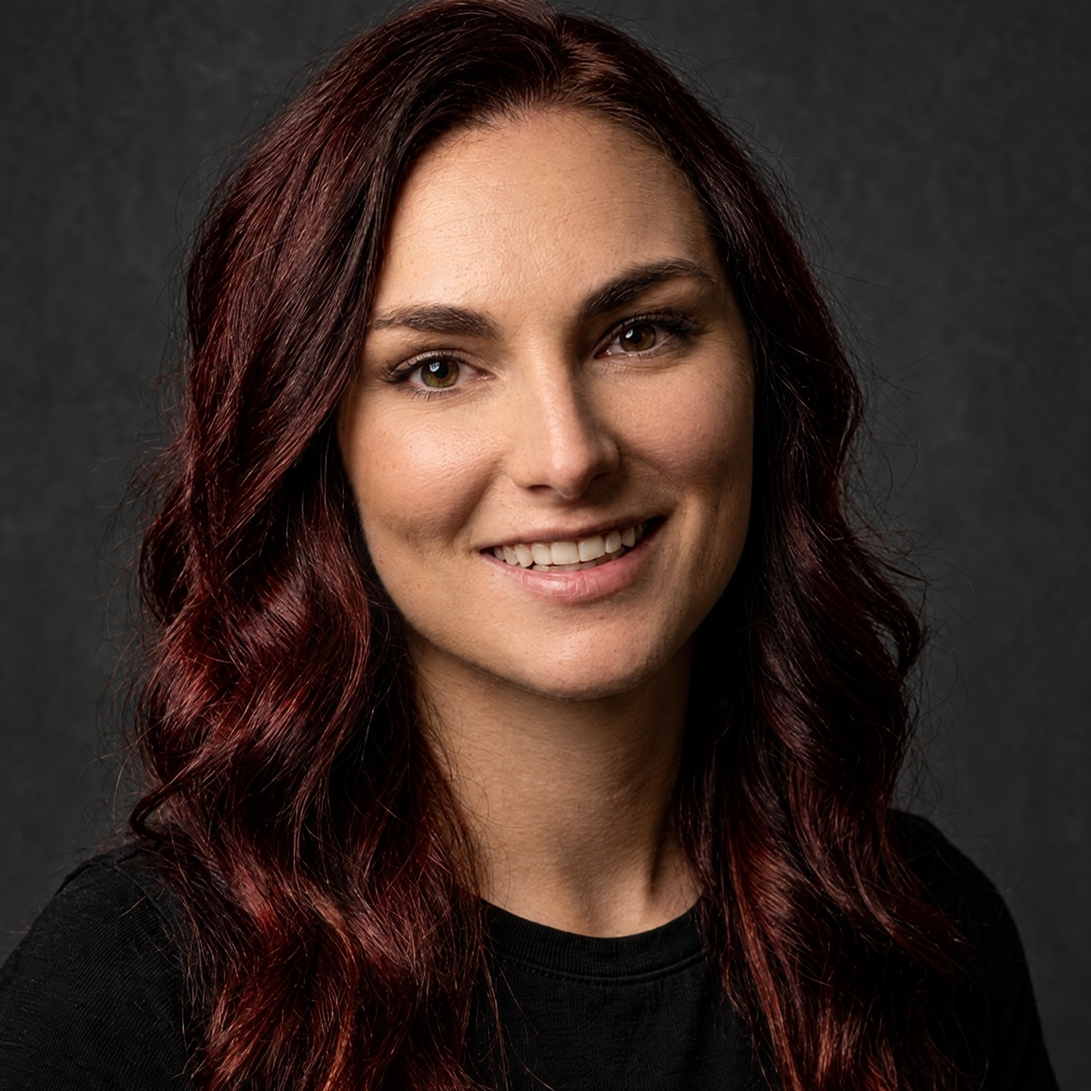
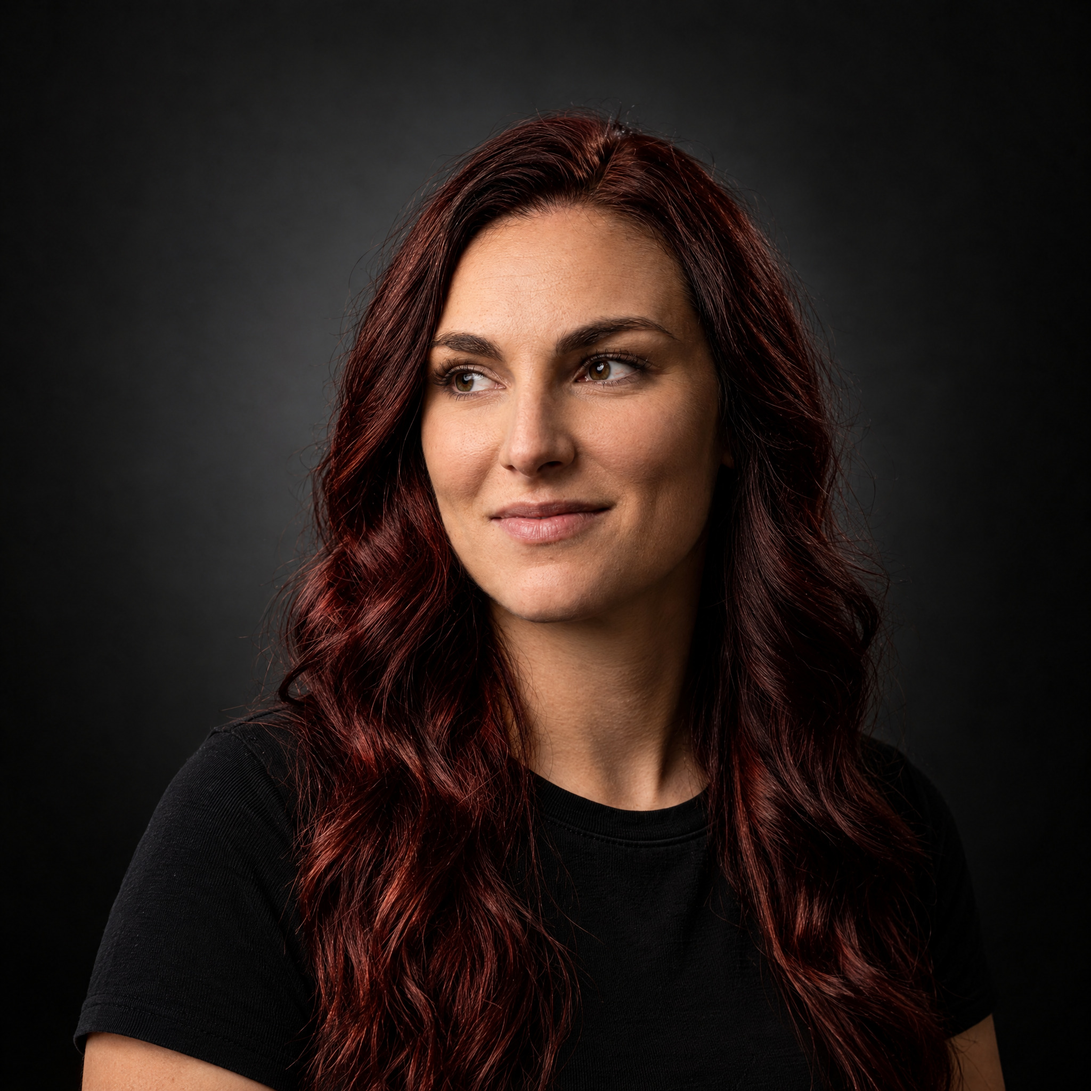
Team photos: Andrea re-posed to match the other three
Her Slack photo faced the camera with a wide smile and a tight crop, while Arnel, Tamara and Abhay
are turned about 20 degrees to the frame's left, looking off camera, with room above the head.
GPT Image 2.5 Sunburst re-posed her from her own photo with the other three as references; the pick
measures face 32% of the frame, top of face at 25%, head turned the same way. Her sharpened front-facing
photo stays as andrea-van-wyk-frontal.jpg. Site files move to -v4.

diff --git a/src/app/home-v11/ui.tsx b/src/app/home-v11/ui.tsx
@@ -11,7 +11,7 @@ export const img = (p: string) => asset(`/images/home-v11/${p}`);
  * file name, never new bytes at the old path: add the suffix here and name both files to match
  * (scripts/design/team-photos.py writes them).
  */
-const PHOTO_SUFFIX: Record<string, string> = { 'arnel-bukva': '-v3', 'tamara-pavlovic': '-v3', 'andrea-van-wyk': '-v3', 'abhay-tyagi': '-v3' };
+const PHOTO_SUFFIX: Record<string, string> = { 'arnel-bukva': '-v3', 'tamara-pavlovic': '-v3', 'andrea-van-wyk': '-v4', 'abhay-tyagi': '-v3' };
 const photoName = (slug: string) => `${slug}${PHOTO_SUFFIX[slug] ?? ''}`;
 export const personPhoto = (slug: string) => img(`team/${photoName(slug)}.jpg`);
 export const personAvatar = (slug: string) => img(`avatars/${photoName(slug)}.png`);
